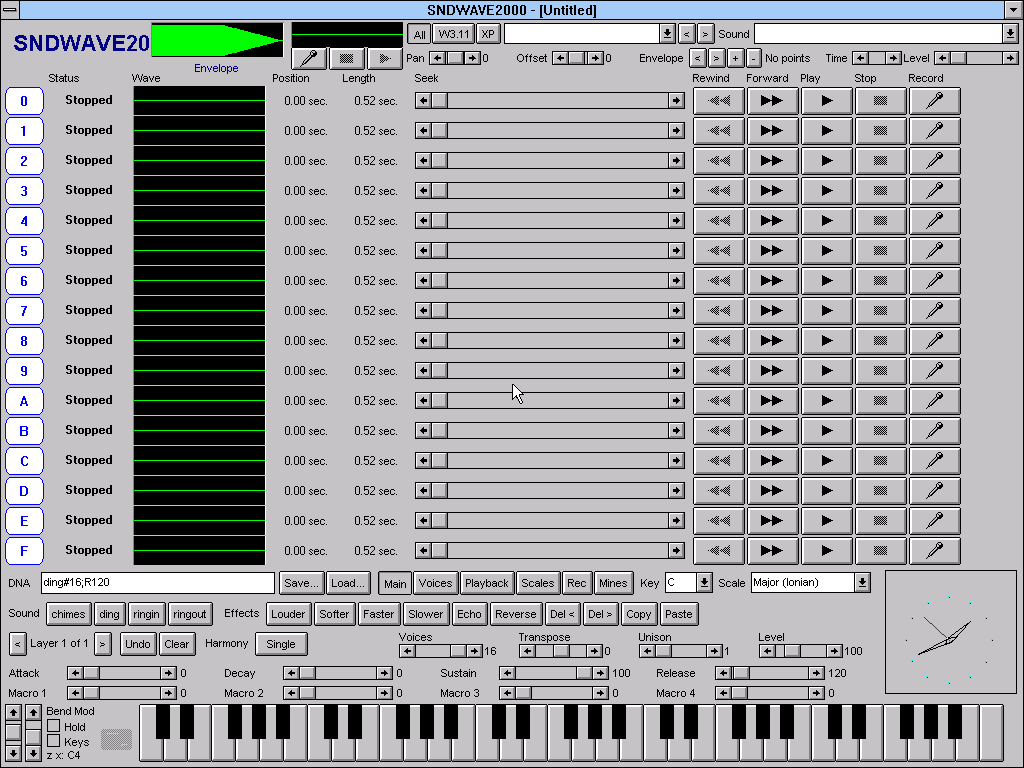
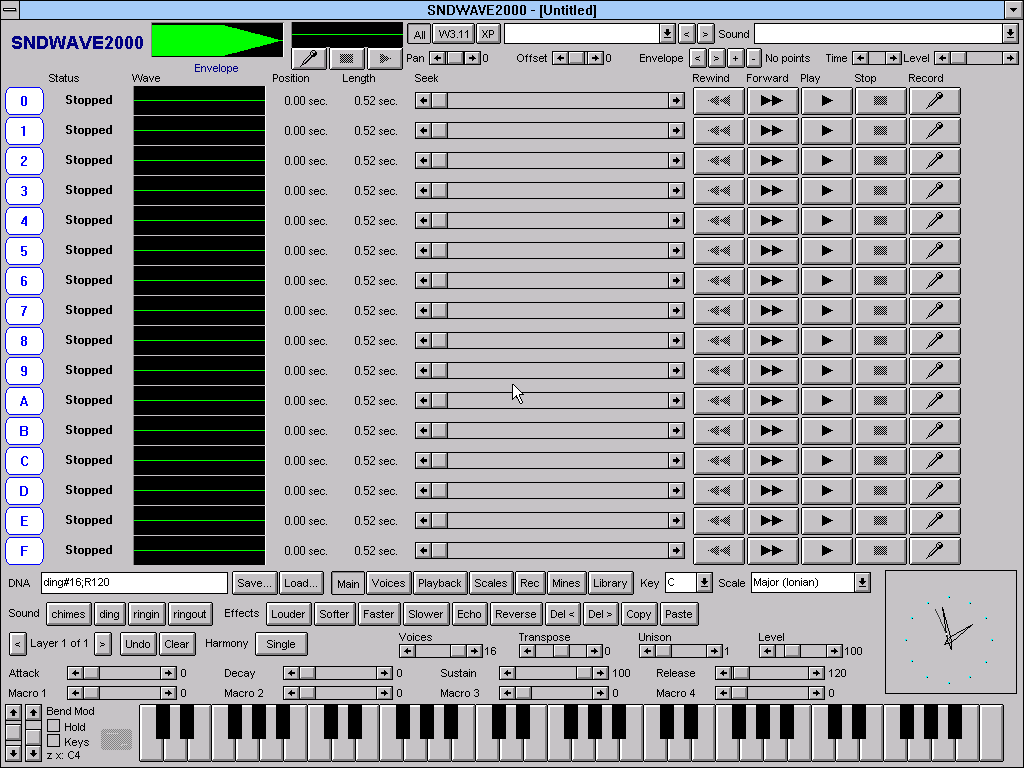
SNDWAVE2000 Try it online: rebuilt from 14416bd (3.11 lane's 09fbff6: the full painted name, the Library tab)
make_drive.py also drops w31.conf.in's `mount p @PACKS@` (no pack discs in the browser: the Library tab says so).
Checked again: render311 vs web bit-identical for the 10 cases (grains to 7e-9); online: kit and pads, drag, state
files, grains, the Mines sequencer, Scala import, 60 s tone with no gaps; deployed, md5s checked.

diff --git a/site/sndwave2000/play/b16-try.js b/site/sndwave2000/play/b16-try.js
@@ -6,7 +6,7 @@
   // the product's names (the UI, the files it saves); files saved under the old name (.b16, BASILISK-SYNTH state,
   // the plugin's .vstpreset) still open
   var NAME = 'SNDWAVE2000', FILE = 'SNDWAVE2000', EXT = '.b16';
-  var CFG = /*CONFIG*/{"v":"e57fdac49b","files":[{"name":"b16.wasm","size":2688068,"gz":1096821},{"name":"w31web.state","size":6082943,"gz":1445584},{"name":"drive.zip","size":3603619,"gz":3603619}],"lead":2048,"buildFile":{"name":"w31build.state","size":4866610,"gz":990383}}/*END*/;
+  var CFG = /*CONFIG*/{"v":"0b525d5939","files":[{"name":"b16.wasm","size":2688068,"gz":1096821},{"name":"w31web.state","size":6080039,"gz":1440286},{"name":"drive.zip","size":3605805,"gz":3605805}],"lead":2048,"buildFile":{"name":"w31build.state","size":4866610,"gz":990375}}/*END*/;
   var DATA = null;   // b16-data.json, fetched on the click: the machine's settings, the library's names, the presets
   var root = document.getElementById('b16try');
   if (!root) return;

diff --git a/site/sndwave2000/play/index.html b/site/sndwave2000/play/index.html
@@ -111,8 +111,8 @@
   <p class="note">Click the screen, then use Windows: the on-screen keys, <b>Keys</b> to play from the computer keyboard (<code>a w s e d f t g y h u j k</code>, <code>z</code>/<code>x</code> change octave), the Preset and Sound lists, the DNA line and every Sound Recorder button. Web MIDI is optional: it plays notes and follows the mod wheel and pitch bend. It pauses while the page is hidden, and stops itself if the browser cannot keep up.</p>
   <p class="note b16mobile" hidden>Best on a desktop or laptop computer: it needs a mouse, a keyboard and a fast processor.</p>
 </div>
-<script src="b16-ui.js?v=e57fdac49b" defer></script>
-<script src="b16-try.js?v=e57fdac49b" defer></script>
+<script src="b16-ui.js?v=0b525d5939" defer></script>
+<script src="b16-try.js?v=0b525d5939" defer></script>
 <!-- b16-try: end -->
 </main>
 

diff --git a/tools/basilisk16-web/make_drive.py b/tools/basilisk16-web/make_drive.py
@@ -74,7 +74,7 @@ for n in sorted(dirs | set(files)):
     zi.compress_type = zipfile.ZIP_DEFLATED; zi.external_attr = 0o644 << 16; z.writestr(zi, files[n]); nkept += 1
 z.close()
 conf = open(os.path.join(pkg, 'engine', 'w31.conf.in')).read()
-# R: (My Recordings, @RECDIR@): the web edition has no folder for it yet, so the line goes
-conf = '\n'.join(l for l in conf.split('\n') if '@RECDIR@' not in l)
+# R: (My Recordings, @RECDIR@) and P: (the pack discs, @PACKS@): the web edition has no folders for them yet, so the lines go
+conf = '\n'.join(l for l in conf.split('\n') if '@RECDIR@' not in l and '@PACKS@' not in l)
 open(os.path.join(out, 'w31.conf'), 'w').write(conf.replace('@MACHINE@', '/machine'))
 print('drive.zip', os.path.getsize(os.path.join(out, 'drive.zip')), 'bytes,', nkept, 'files', '(%d left out)' % dropped if keep else '')
